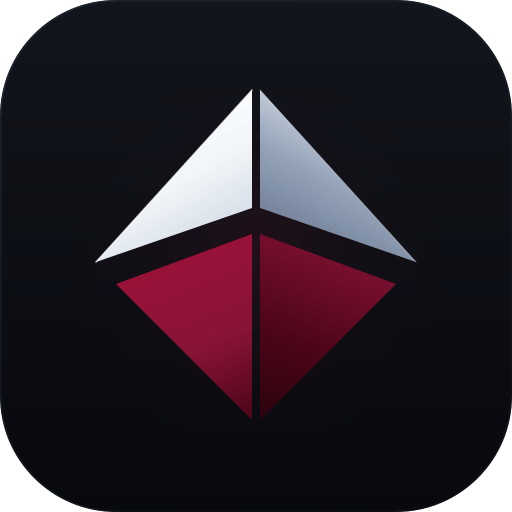
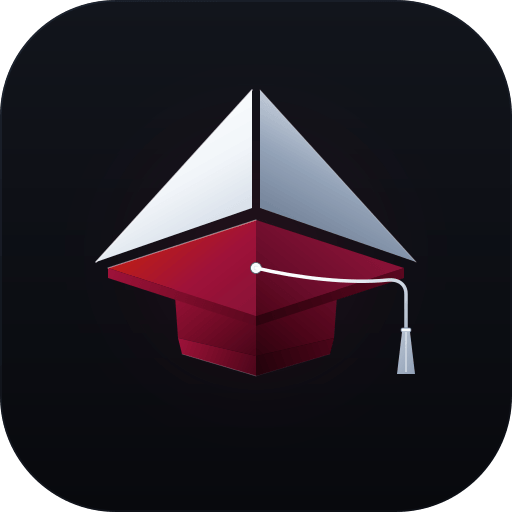
feat(ui): refine academic graduation cap geometry and tassel in brand mark

Changed region(s): [[0.1875, 0.4062, 0.8125, 0.8125]]

diff --git a/src/components/jet-logo.tsx b/src/components/jet-logo.tsx
@@ -64,38 +64,133 @@ export function JetLogoIcon({ className = "h-8 w-8", ...props }: SVGProps<SVGSVG
           <stop offset="100%" stopColor="#64748b" />
         </linearGradient>
 
-        {/* Academic Mortarboard Crest - Matte Bordeaux Light (Left) */}
+        {/* Academic Mortarboard Top - Matte Bordeaux Light (Left) */}
         <linearGradient
           id="acadLeft"
-          x1="170"
-          y1="216"
-          x2="252"
-          y2="408"
+          x1="180"
+          y1="210"
+          x2="256"
+          y2="306"
           gradientUnits="userSpaceOnUse"
         >
-          <stop offset="0%" stopColor="#9f1239" />
-          <stop offset="60%" stopColor="#881337" />
-          <stop offset="100%" stopColor="#4c0519" />
+          <stop offset="0%" stopColor="#b91c1c" />
+          <stop offset="45%" stopColor="#9f1239" />
+          <stop offset="100%" stopColor="#881337" />
         </linearGradient>
 
-        {/* Academic Mortarboard Crest - Matte Bordeaux Deep (Right) */}
+        {/* Academic Mortarboard Top - Matte Bordeaux Deep (Right) */}
         <linearGradient
           id="acadRight"
-          x1="342"
-          y1="216"
-          x2="260"
-          y2="408"
+          x1="332"
+          y1="210"
+          x2="256"
+          y2="306"
           gradientUnits="userSpaceOnUse"
         >
           <stop offset="0%" stopColor="#881337" />
-          <stop offset="60%" stopColor="#4c0519" />
+          <stop offset="55%" stopColor="#6b0d2b" />
+          <stop offset="100%" stopColor="#4c0519" />
+        </linearGradient>
+
+        {/* Academic Mortarboard Rim - Matte Bordeaux Rim Left */}
+        <linearGradient
+          id="acadRimLeft"
+          x1="108"
+          y1="258"
+          x2="256"
+          y2="316"
+          gradientUnits="userSpaceOnUse"
+        >
+          <stop offset="0%" stopColor="#9f1239" />
+          <stop offset="100%" stopColor="#5a081f" />
+        </linearGradient>
+
+        {/* Academic Mortarboard Rim - Matte Bordeaux Rim Right */}
+        <linearGradient
+          id="acadRimRight"
+          x1="404"
+          y1="258"
+          x2="256"
+          y2="316"
+          gradientUnits="userSpaceOnUse"
+        >
+          <stop offset="0%" stopColor="#5a081f" />
           <stop offset="100%" stopColor="#2c030e" />
+        </linearGradient>
+
+        {/* Academic Skullcap Base - Light Facet (Left) */}
+        <linearGradient
+          id="capLeft"
+          x1="174"
+          y1="270"
+          x2="256"
+          y2="368"
+          gradientUnits="userSpaceOnUse"
+        >
+          <stop offset="0%" stopColor="#9f1239" />
+          <stop offset="50%" stopColor="#700b25" />
+          <stop offset="100%" stopColor="#3b0514" />
+        </linearGradient>
+
+        {/* Academic Skullcap Base - Deep Facet (Right) */}
+        <linearGradient
+          id="capRight"
+          x1="338"
+          y1="270"
+          x2="256"
+          y2="368"
+          gradientUnits="userSpaceOnUse"
+        >
+          <stop offset="0%" stopColor="#6b0d2b" />
+          <stop offset="50%" stopColor="#4c0519" />
+          <stop offset="100%" stopColor="#22030b" />
+        </linearGradient>
+
+        {/* Academic Skullcap Brow Band - Left */}
+        <linearGradient
+          id="capBandLeft"
+          x1="174"
+          y1="336"
+          x2="256"
+          y2="368"
+          gradientUnits="userSpaceOnUse"
+        >
+          <stop offset="0%" stopColor="#9f1239" />
+          <stop offset="100%" stopColor="#4c0519" />
+        </linearGradient>
+
+        {/* Academic Skullcap Brow Band - Right */}
+        <linearGradient
+          id="capBandRight"
+          x1="338"
+          y1="336"
+          x2="256"
+          y2="368"
+          gradientUnits="userSpaceOnUse"
+        >
+          <stop offset="0%" stopColor="#4c0519" />
+          <stop offset="100%" stopColor="#22030b" />
+        </linearGradient>
+
+        {/* Academic Tassel - Titanium Silver/Platinum Gradient */}
+        <linearGradient
+          id="tasselGrad"
+          x1="256"
+          y1="258"
+          x2="416"
+          y2="360"
+          gradientUnits="userSpaceOnUse"
+        >
+          <stop offset="0%" stopColor="#ffffff" />
+          <stop offset="35%" stopColor="#f8fafc" />
+          <stop offset="70%" stopColor="#cbd5e1" />
+          <stop offset="100%" stopColor="#94a3b8" />
         </linearGradient>
 
         {/* Soft Ambient Matte Aura */}
         <radialGradient id="ambientGlow" cx="256" cy="256" r="220" gradientUnits="userSpaceOnUse">
-          <stop offset="0%" stopColor="#9f1239" stopOpacity="0.12" />
-          <stop offset="60%" stopColor="#9f1239" stopOpacity="0.02" />
+          <stop offset="0%" stopColor="#9f1239" stopOpacity="0.16" />
+          <stop offset="60%" stopColor="#9f1239" stopOpacity="0.03" />
           <stop offset="100%" stopColor="#000000" stopOpacity="0" />
         </radialGradient>
       </defs>
@@ -118,12 +213,6 @@ export function JetLogoIcon({ className = "h-8 w-8", ...props }: SVGProps<SVGSVG
         {/* 1. JET: Aerodynamic Mach Delta Wings (Supersonic Titanium Facets) */}
         <path d="M 252,80 L 96,252 L 252,198 Z" fill="url(#jetLeft)" />
         <path d="M 260,80 L 416,252 L 260,198 Z" fill="url(#jetRight)" />
-
-        {/* 2. ACADEMIE: Foundation Mortarboard Diamond / Knowledge Crest (Matte Bordeaux) */}
-        <path d="M 252,224 L 116,274 L 252,410 Z" fill="url(#acadLeft)" />
-        <path d="M 260,224 L 396,274 L 260,410 Z" fill="url(#acadRight)" />
-
-        {/* 3. Wing Leading Edge Sheen (Matte Precision Refraction Lines) */}
         <line
           x1="252"
           y1="80"
@@ -143,6 +232,81 @@ export function JetLogoIcon({ className = "h-8 w-8", ...props }: SVGProps<SVGSVG
           strokeWidth="1"
           strokeOpacity="0.35"
           strokeLinecap="round"
+        />
+
+        {/* 2. ACADEMIE: Skullcap Base (Recessed Under Board, Faceted Academic Coif & Brow Band) */}
+        <path d="M 174,272 L 256,260 L 256,346 L 178,328 Z" fill="url(#capLeft)" />
+        <path d="M 338,272 L 256,260 L 256,346 L 334,328 Z" fill="url(#capRight)" />
+        <path d="M 178,328 L 256,346 L 256,366 L 182,344 Z" fill="url(#capBandLeft)" />
+        <path d="M 334,328 L 256,346 L 256,366 L 330,344 Z" fill="url(#capBandRight)" />
+        <line
+          x1="182"
+          y1="344"
+          x2="256"
+          y2="366"
+          stroke="#ffffff"
+          strokeWidth="0.75"
+          strokeOpacity="0.25"
+          strokeLinecap="round"
+        />
+        <line
+          x1="330"
+          y1="344"
+          x2="256"
+          y2="366"
+          stroke="#ffffff"
+          strokeWidth="0.5"
+          strokeOpacity="0.1"
+          strokeLinecap="round"
+        />
+
+        {/* 3. ACADEMIE: Mortarboard Board Rim (Front 3D Thickness) */}
+        <path d="M 108,258 L 256,306 L 256,316 L 108,268 Z" fill="url(#acadRimLeft)" />
+        <path d="M 404,258 L 256,306 L 256,316 L 404,268 Z" fill="url(#acadRimRight)" />
+
+        {/* 4. ACADEMIE: Mortarboard Board Top (Perspective Rhombus) */}
+        <path d="M 256,210 L 108,258 L 256,306 Z" fill="url(#acadLeft)" />
+        <path d="M 256,210 L 404,258 L 256,306 Z" fill="url(#acadRight)" />
+        <line
+          x1="256"
+          y1="210"
+          x2="108"
+          y2="258"
+          stroke="#ffffff"
+          strokeWidth="1.2"
+          strokeOpacity="0.45"
+          strokeLinecap="round"
+        />
+
+        {/* 5. ACADEMIE: Academic Tassel (Püskül) */}
+        <circle cx="256" cy="258" r="5.5" fill="#f8fafc" stroke="#475569" strokeWidth="0.8" />
+        <circle cx="256" cy="258" r="2.2" fill="#cbd5e1" />
+        <path
+          d="M 256,258 C 298,268 350,274 388,270 C 398,269 406,274 406,284 L 406,318"
+          fill="none"
+          stroke="url(#tasselGrad)"
+          strokeWidth="3.5"
+          strokeLinecap="round"
+        />
+        <rect
+          x="401"
+          y="318"
+          width="10"
+          height="4"
+          rx="1.5"
+          fill="#f8fafc"
+          stroke="#64748b"
+          strokeWidth="0.75"
+        />
+        <polygon points="402,322 410,322 415,364 397,364" fill="url(#tasselGrad)" />
+        <line
+          x1="406"
+          y1="322"
+          x2="406"
+          y2="362"
+          stroke="#ffffff"
+          strokeWidth="1"
+          strokeOpacity="0.8"
         />
       </g>
     </svg>

diff --git a/src/components/jet-logo.test.tsx b/src/components/jet-logo.test.tsx
@@ -13,6 +13,10 @@ describe("JetLogo & JetLogoIcon Components", () => {
     expect(html).toContain("logoBg");
     expect(html).toContain("jetLeft");
     expect(html).toContain("acadLeft");
+    expect(html).toContain("acadRimLeft");
+    expect(html).toContain("capLeft");
+    expect(html).toContain("capBandLeft");
+    expect(html).toContain("tasselGrad");
   });
 
   it("should render JetLogo with brand typography and default tagline", () => {
